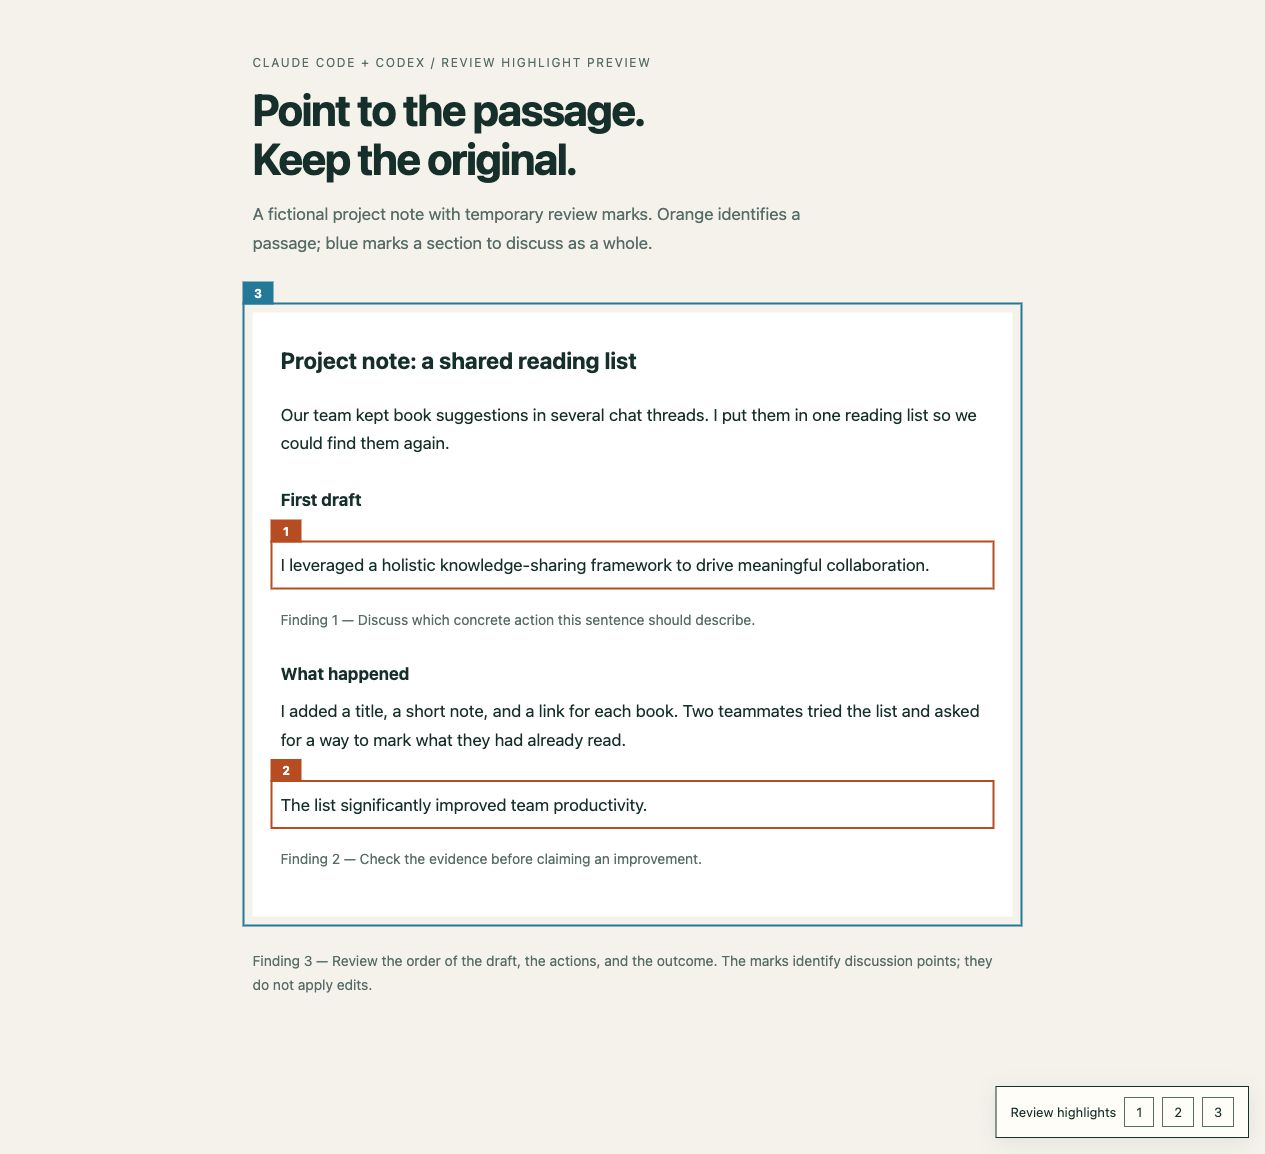
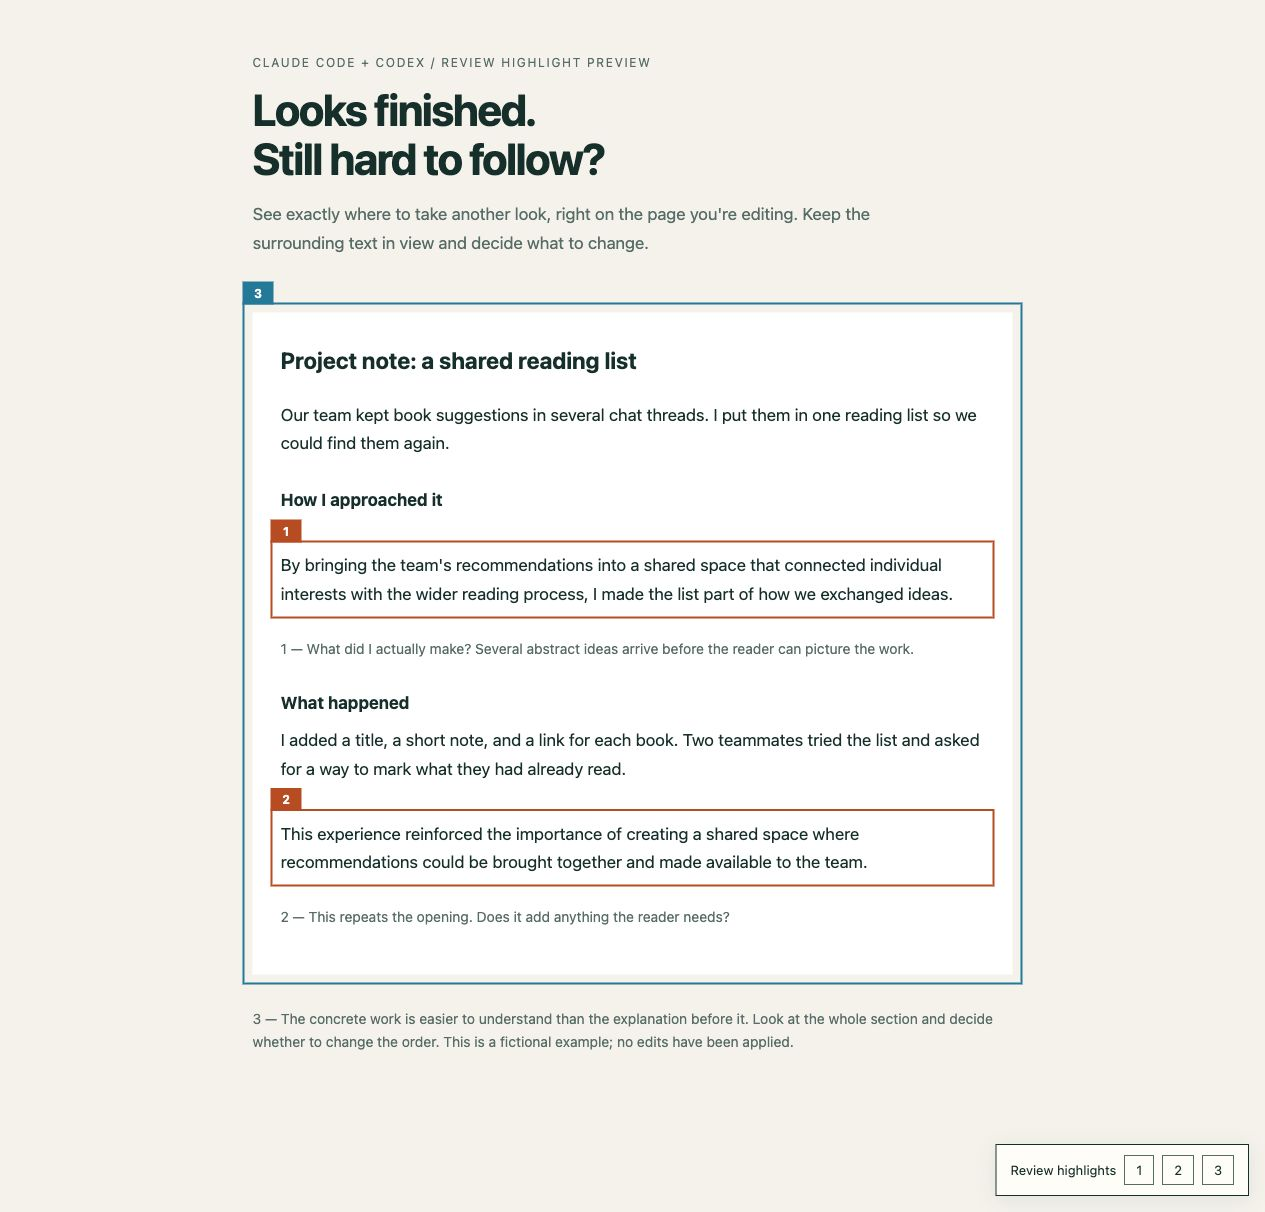
Position highlights as in-page support for editing unclear AI-assisted writing

Changed region(s): [[0.185, 0.0312, 0.8016, 0.8735], [0.8016, 0.9359, 0.9866, 0.9983]]

diff --git a/examples/demo.html b/examples/demo.html
@@ -35,21 +35,21 @@
 <main>
   <header>
     <p class="eyebrow">Claude Code + Codex / Review Highlight Preview</p>
-    <h1>Point to the passage.<br>Keep the original.</h1>
-    <p class="intro">A fictional project note with temporary review marks. Orange identifies a passage; blue marks a section to discuss as a whole.</p>
+    <h1>Looks finished.<br>Still hard to follow?</h1>
+    <p class="intro">See exactly where to take another look, right on the page you're editing. Keep the surrounding text in view and decide what to change.</p>
   </header>
   <article class="review-box review-group" id="review-3" data-review="3" aria-label="Finding 3: section structure">
     <h2>Project note: a shared reading list</h2>
     <p>Our team kept book suggestions in several chat threads. I put them in one reading list so we could find them again.</p>
-    <h3>First draft</h3>
-    <p class="review-box" id="review-1" data-review="1">I leveraged a holistic knowledge-sharing framework to drive meaningful collaboration.</p>
-    <p class="note">Finding 1 — Discuss which concrete action this sentence should describe.</p>
+    <h3>How I approached it</h3>
+    <p class="review-box" id="review-1" data-review="1">By bringing the team's recommendations into a shared space that connected individual interests with the wider reading process, I made the list part of how we exchanged ideas.</p>
+    <p class="note">1 — What did I actually make? Several abstract ideas arrive before the reader can picture the work.</p>
     <h3>What happened</h3>
     <p>I added a title, a short note, and a link for each book. Two teammates tried the list and asked for a way to mark what they had already read.</p>
-    <p class="review-box" id="review-2" data-review="2">The list significantly improved team productivity.</p>
-    <p class="note">Finding 2 — Check the evidence before claiming an improvement.</p>
+    <p class="review-box" id="review-2" data-review="2">This experience reinforced the importance of creating a shared space where recommendations could be brought together and made available to the team.</p>
+    <p class="note">2 — This repeats the opening. Does it add anything the reader needs?</p>
   </article>
-  <p class="note">Finding 3 — Review the order of the draft, the actions, and the outcome. The marks identify discussion points; they do not apply edits.</p>
+  <p class="note">3 — The concrete work is easier to understand than the explanation before it. Look at the whole section and decide whether to change the order. This is a fictional example; no edits have been applied.</p>
 </main>
 <nav class="review-nav" aria-label="Review navigation">
   <span>Review highlights</span>

diff --git a/README.md b/README.md
@@ -1,17 +1,29 @@
 # Review Highlight Preview
 
-A small, open-source skill for **Claude Code and Codex**. Turn review findings into numbered outlines on a temporary local HTML preview, so you and your agent can discuss the same passage.
+**See where polished AI-assisted writing becomes hard to read—right on the page you're working on.**
 
-![Fictional document with numbered review highlights](examples/preview.jpg)
+An open-source skill for **Claude Code and Codex** that highlights passages worth revisiting in your working web preview. See the wording in its layout, follow the surrounding paragraph, and decide what you want to change.
+
+## The problem
+
+An AI-assisted draft can look finished and still be difficult to follow. You reread a sentence without knowing what it means, lose the point in a paragraph, or feel that the words sound polished but say very little.
+
+You ask the agent to look at it. It explains the issue in chat. You ask, "Where?" It quotes a sentence or describes a section—and you still have to search the page and match the explanation to the text.
+
+This skill puts the highlight **at that exact location on the working page**, with the surrounding text and design still visible. Numbers connect the conversation to the page; they are a way to find the passage, not the purpose of the tool.
+
+![Hard-to-follow passages highlighted in a fictional working page](examples/preview.jpg)
 
 ## What it does
 
-- Orange outlines identify individual passages; blue outlines identify broader sections.
-- Numbered links jump to the corresponding finding.
-- Original text, links, and source files stay intact.
-- Highlights are added only to a temporary copy or local server response and hidden when printing.
+- Shows the sentence or paragraph being discussed directly in the page's existing layout.
+- Helps you inspect vague wording, overloaded sentences, repetition, or a jump in the explanation in context.
+- Keeps the original wording visible while you decide whether and how to revise it.
+- Connects chat feedback to exact locations with numbered outlines and jump links.
 
-This is an **instruction-only skill**, not a browser extension, MCP server, or AI-text detector. Your agent creates the preview using the tools available in its environment. It does not decide which writing is good or bad: your review criteria stay in control.
+Orange outlines mark passages; blue outlines mark broader sections. Highlights live in a temporary local preview and disappear when printing. The source stays unchanged.
+
+This is an **instruction-only skill** for visual support during human editing. It does not automatically rewrite the text or score whether AI wrote it. AI-assisted writing is the main use case, but the same workflow helps with any passage that is hard to follow. A highlight is a point to discuss, not a verdict. Your agent creates the preview using available local tools; you stay in control of the edit.
 
 ## Install
 
@@ -28,8 +40,9 @@ git clone https://github.com/slowspurt/review_ai_highlight.git \
 Then ask:
 
 ```text
-/review-highlight-preview Mark the passages we discussed in this local HTML document.
-Keep the original unchanged and add numbered navigation.
+/review-highlight-preview This AI-assisted page looks finished, but parts are hard to follow.
+Highlight the passages worth revisiting directly on the page I'm working on.
+Keep the wording intact so I can decide what to change.
 ```
 
 ### Codex
@@ -43,8 +56,9 @@ git clone https://github.com/slowspurt/review_ai_highlight.git \
 Then ask:
 
 ```text
-Use $review-highlight-preview to show these review findings beside the document.
-Keep the source unchanged and preserve the finding numbers.
+Use $review-highlight-preview to show exactly where the passages we discussed are.
+Highlight them in my current web preview, with the surrounding text visible.
+Don't rewrite anything yet.
 ```
 
 If your existing Codex installation already discovers skills in a different directory, such as `$CODEX_HOME/skills`, use that configured directory instead. Avoid installing duplicate copies under multiple discovered paths. Start a new session if the skill does not appear.
@@ -55,10 +69,12 @@ Installation paths and invocation syntax follow the official [Claude Code skills
 
 ## How it works
 
-1. The agent maps review numbers to the passages you want marked.
-2. It creates a temporary HTML copy or serves the original with annotation markup added only to the response.
-3. It adds solid outlines, number badges, and navigation links.
-4. It opens a local preview and checks it when browser access is available.
+1. You point out a reading difficulty, ask for a readability review, or discuss a passage with the agent.
+2. The agent locates the relevant text in the working page. If you have already identified passages, it uses those instead of starting a new review.
+3. It adds temporary outlines in the existing layout and connects them to the discussion with numbers.
+4. You look at the highlighted text in context and decide what to revise. Changes to the writing remain a separate request.
+
+The implementation uses a temporary HTML copy or a local server that adds annotation markup only to its responses. The original page is not replaced by a separate review report.
 
 In Codex desktop, a supported browser panel can show the preview beside the chat. In Claude Code or another terminal environment, the agent can use an existing browser integration or give you the local URL. Browser automation is optional; without it, the agent reports that visual verification remains pending. Visible labels follow your language, even though the skill instructions are in English.
 

diff --git a/SKILL.md b/SKILL.md
@@ -1,12 +1,22 @@
 ---
 name: review-highlight-preview
-description: Add numbered solid-outline review highlights and navigation to a temporary local HTML preview without editing the source. Use when a user wants passages marked visually for discussion. Works with Claude Code and Codex using available local file and browser tools.
+description: Highlight hard-to-follow passages directly in the web page a user is working on, so they can see where to revise polished but unclear AI-assisted writing. Use when chat feedback is hard to locate on the page or the user asks to see which parts need attention. Preserve wording and layout; support the user's editing decisions without automatically rewriting or detecting AI authorship. Works with Claude Code and Codex.
 license: MIT
 ---
 
 # Review Highlight Preview
 
-Add numbered solid outlines to passages in a resume, article, or webpage so the user can see exactly what is being discussed. Keep annotation separate from editing. This skill handles presentation only; use the user's request and project instructions to evaluate the content. Match visible labels and explanations to the user's language and document context.
+Help the user see exactly where reading breaks down in the page they are editing. An AI-assisted draft may look polished yet contain passages that are vague, overloaded, repetitive, or difficult to connect. Explaining those issues only in chat makes the user hunt through the page. Put temporary highlights on the actual passages in the existing web layout, with enough surrounding text to judge them.
+
+The outcome is a shared view of where the user might revise, not an automatic rewrite or an AI-authorship score. Numbers and rectangles support that conversation. Match visible labels and explanations to the user's language and document context.
+
+## What to highlight
+
+- Start with the user's reading difficulties and the findings already discussed. A request to show "where" should locate those findings, not restart the review or invent additional problems.
+- When the user also requests a review, use their writing preferences and project instructions. Identify a concrete reading difficulty: an unclear subject, too many ideas compressed together, repetition without new information, or an unexplained shift between ideas.
+- Highlight the smallest passage that contains the problem; mark a larger section when its order or repetition is the issue. Keep neighboring text and the page design visible.
+- Explain each finding briefly and tie it to its number. Treat it as a judgment the user can accept or reject. Do not label all polished phrasing, technical terms, or regular structure as bad or AI-written.
+- Preserve the author's meaning, voice, and factual claims. Marking a passage does not authorize deletion, rewriting, or applying a proposed correction.
 
 ## Default presentation
 
@@ -18,7 +28,7 @@ Add numbered solid outlines to passages in a resume, article, or webpage so the 
 
 ## Workflow
 
-1. Identify the user's preview tab and source HTML. Locate each target passage or region and associate it with a finding number. Scope repeated phrases to the relevant section.
+1. Identify the page the user is working on, its preview tab, and source HTML. Locate each target passage or region and associate it with a finding number. Scope repeated phrases to the relevant section. Keep the current page's layout rather than extracting the text into a separate report.
 2. Use a local server that reads the source and **adds annotation HTML/CSS only to the response**, or create a review copy in a temporary directory. Bind the server to `127.0.0.1`. Preserve relative asset paths so images and styles continue to load.
 3. Wrap individual passages temporarily and add annotation classes to larger regions. Avoid string replacement across HTML tag boundaries. For simple replacements, verify that each target occurs exactly once. Use elements or text ranges for complex nesting.
 4. Assign IDs such as `review-1` and link to them with `href="#review-1"`. Leave space between outlines and text, and prevent badges from overlapping preceding sentences. Annotations should follow the content as viewport width or zoom changes.
